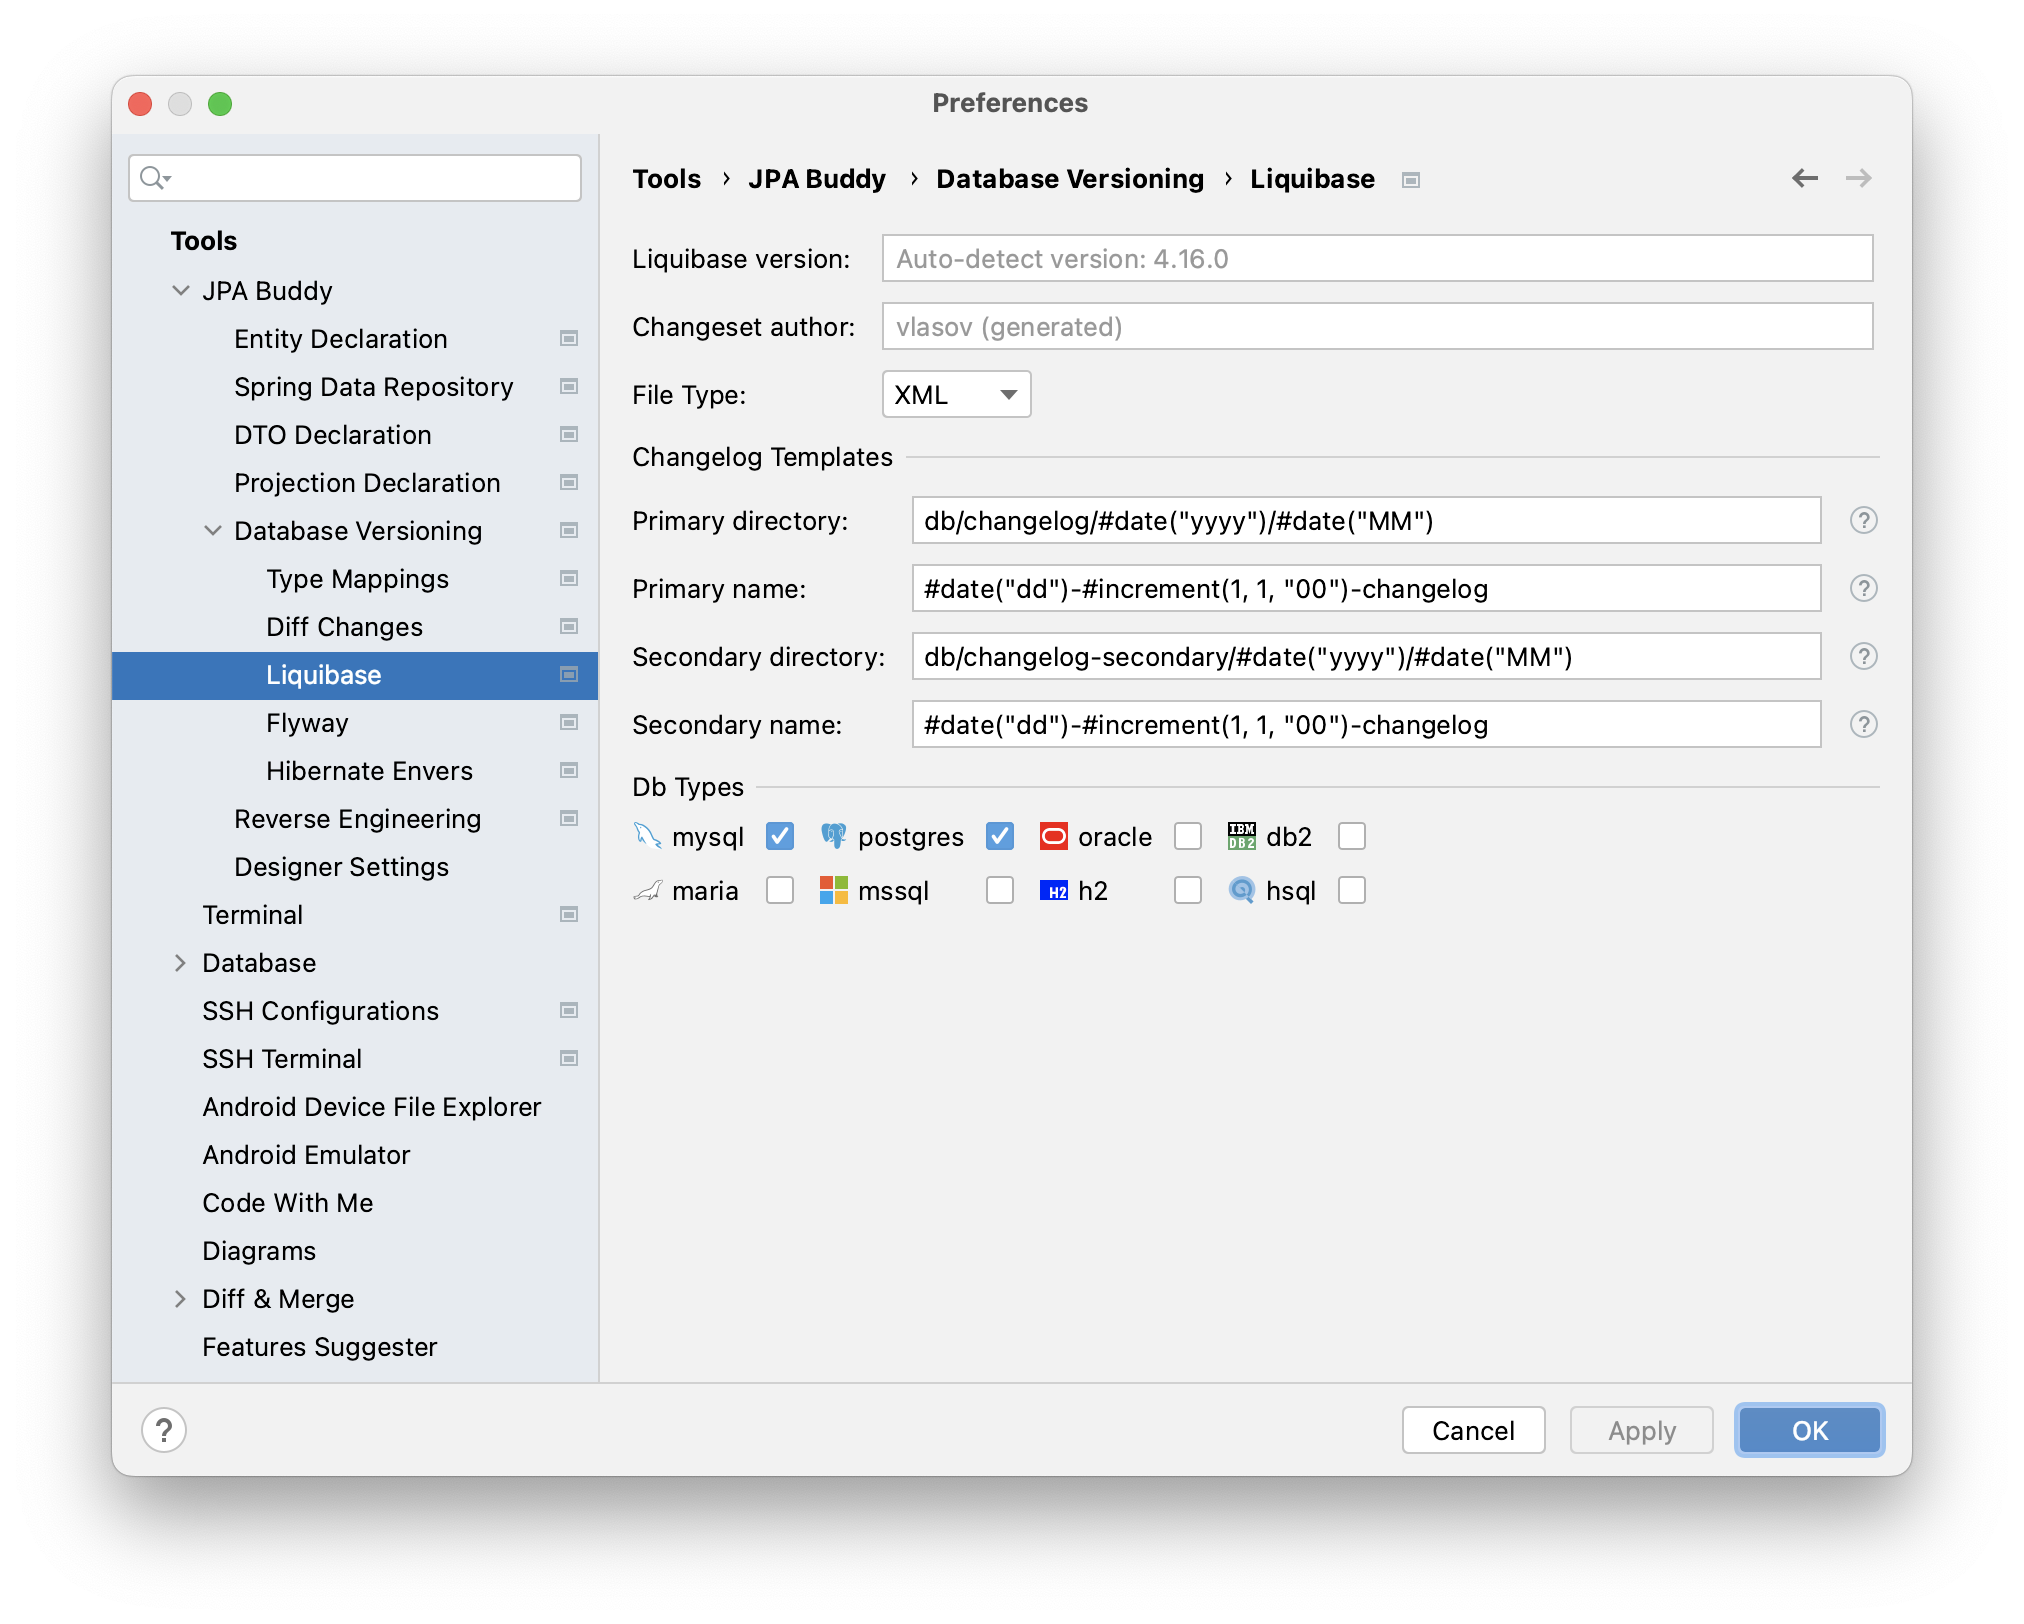
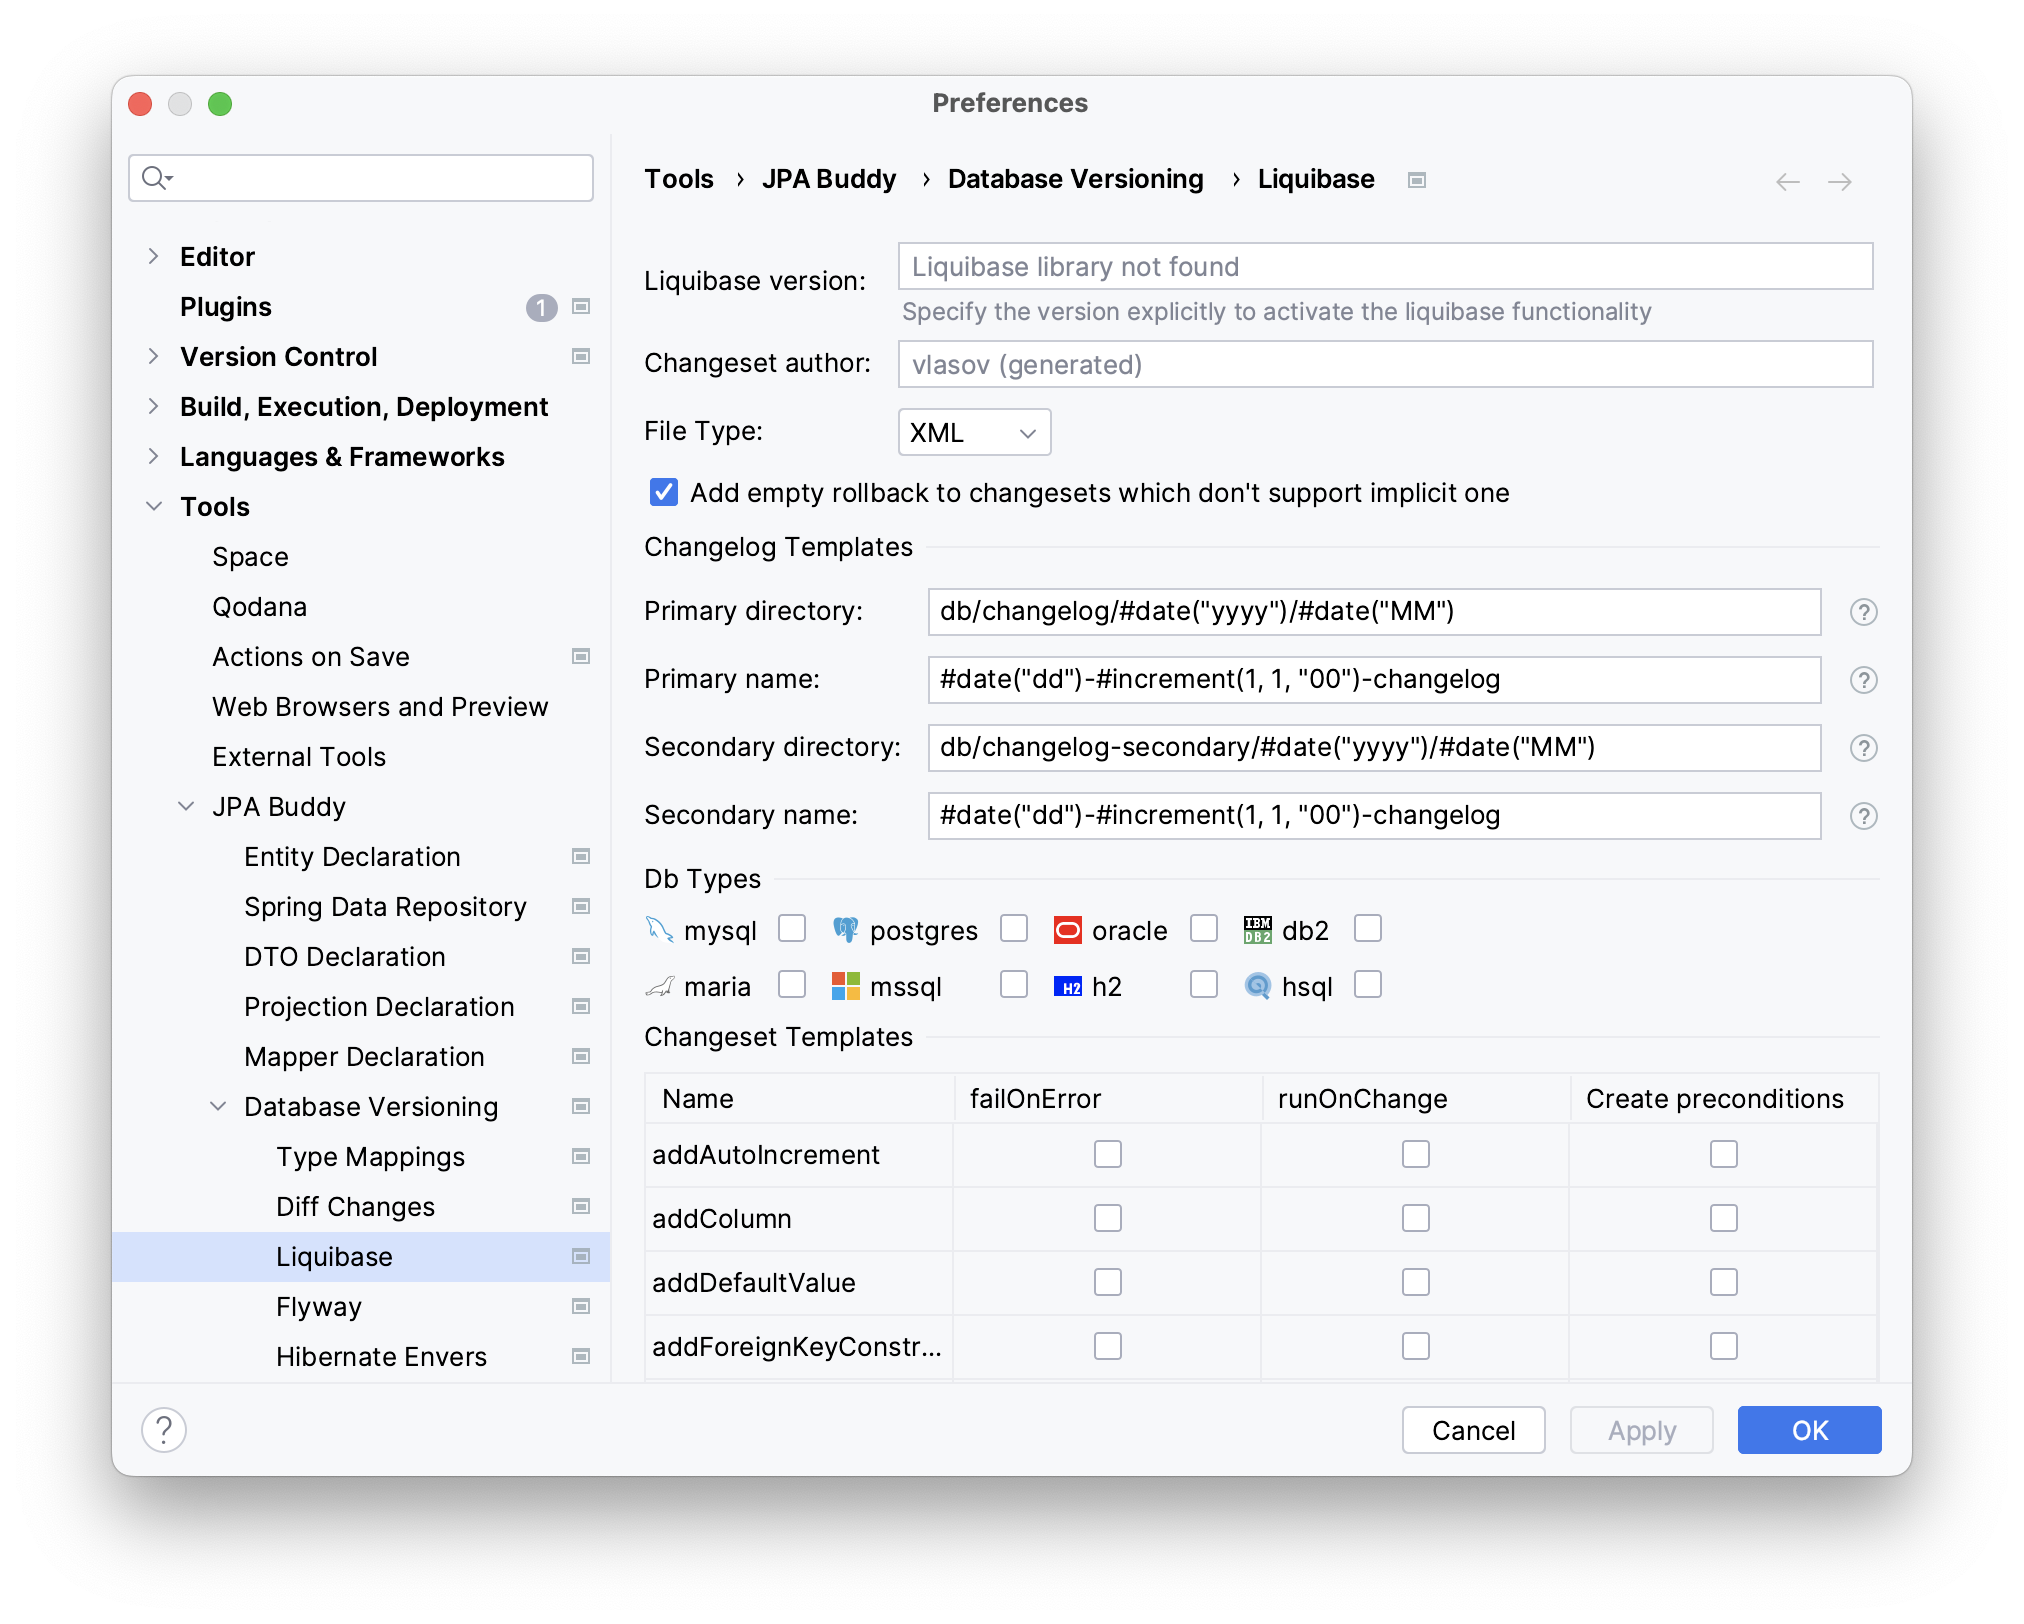
JPAB-1418 Add ability to specify changeSet template for Liquibase changelog generation #150

diff --git a/database-versioning/database-versioning.md b/database-versioning/database-versioning.md
@@ -330,6 +330,30 @@ Sometimes software must provide support for a few DBMS types. In this case, Liqu
 
 Therefore, there is no need to create separate changelogs for different DBMSes.
 
+#### Changeset Templates
+
+Changeset templates are pre-defined structures that provide a standardized format for specifying database schema changes using Liquibase. These templates serve as a foundation for creating consistent and reusable changesets, ensuring uniformity and ease of maintenance across database deployments.
+
+JPA Buddy provides an ability to apply templates while generating changesets from the JPA Palette. This feature provides the ability to include various customizable elements in it:
+
+1. Add empty rollback to changesets which don't support implicit one – when enabled, any new changeset <a href="https://docs.liquibase.com/workflows/liquibase-community/automatic-custom-rollbacks.html" target="_blank">lacking an implicit rollback</a> will automatically have an empty rollback tag with a TODO comment added.
+2. failOnError and runOnChange: JPA Buddy supports the commonly used attributes within the changeSet tag, allowing users to set default values for `failOnError` and `runOnChange`.
+3. Create preconditions – each changeset can have specific preconditions. It is important to note that certain Liquibase changesets may not offer this option. For example, the tag `procedureExists` is not available for the `createProcedure`.
+
+![changeset-templates.png](img/changeset-templates.png)
+
+Here is an example showcasing all four features enabled for a drop table changeset:
+
+```xml
+<changeSet id="1680594632747-1" author="jpa-buddy" runOnChange="true" failOnError="true">
+    <preConditions>
+        <tableExists tableName="customer"/>
+    </preConditions>
+    <dropTable tableName="customer"/>
+    <rollback><!--TODO--></rollback>
+</changeSet>
+```
+
 ## Flyway Support
 
 <div class="youtube">
